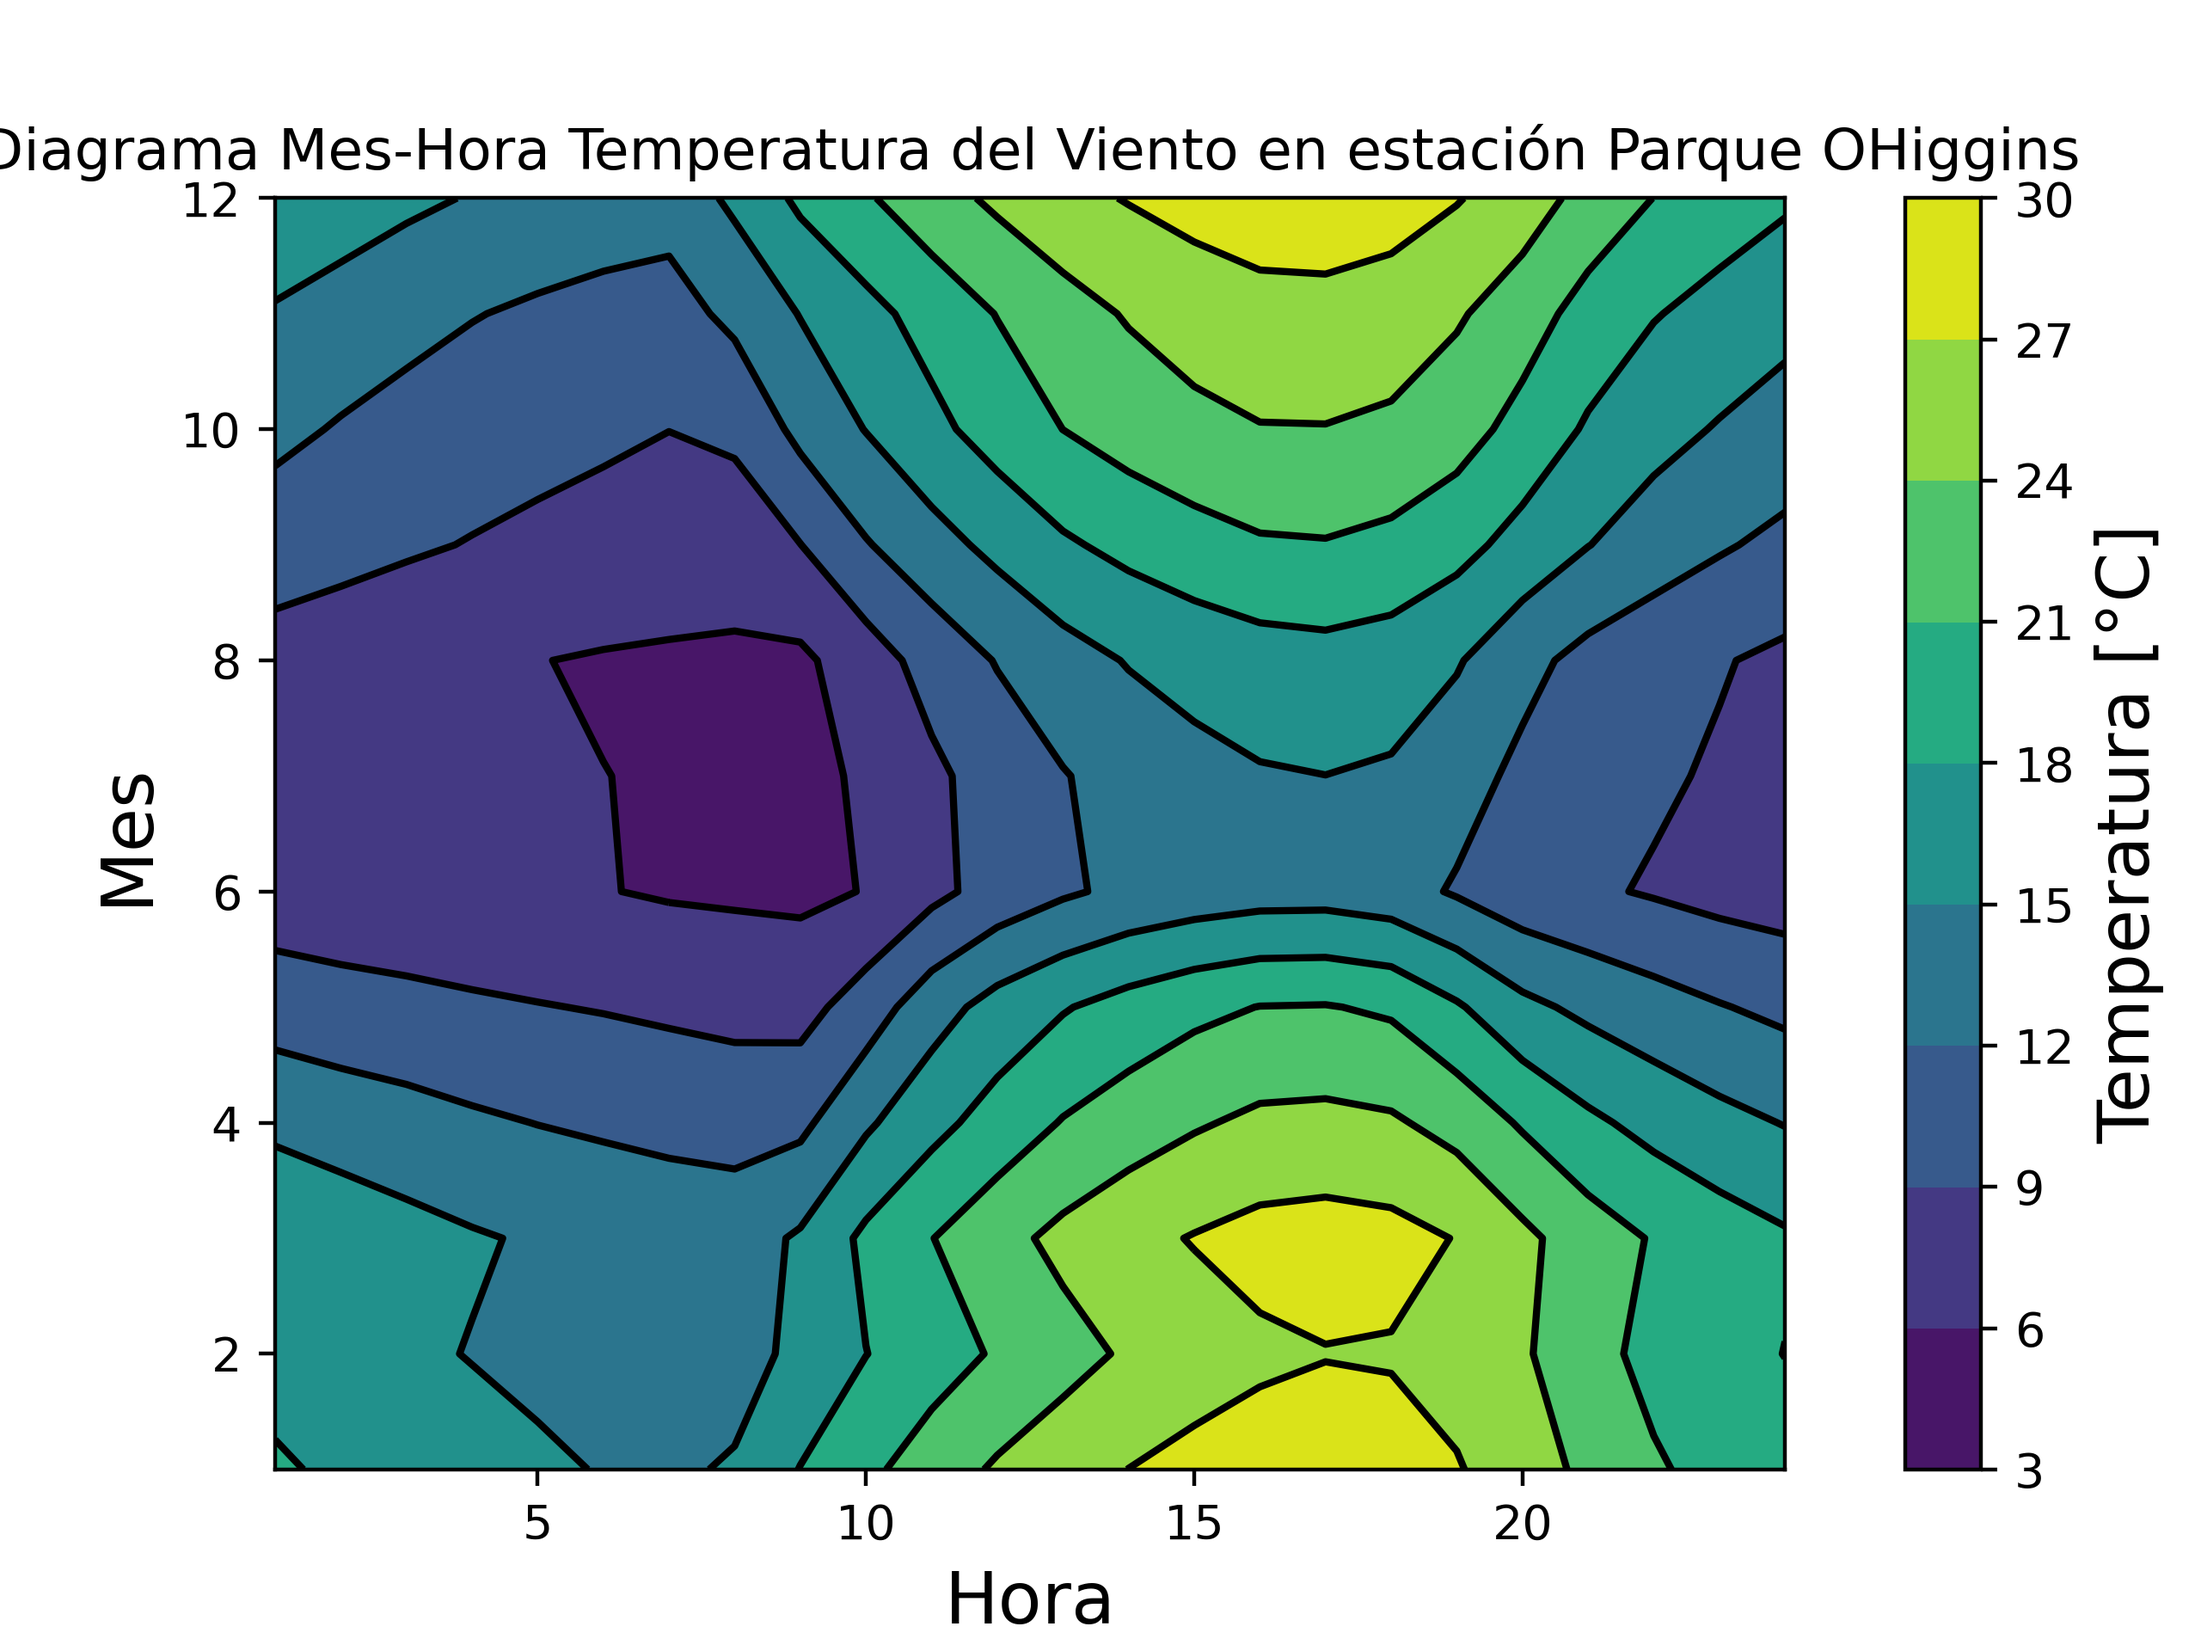
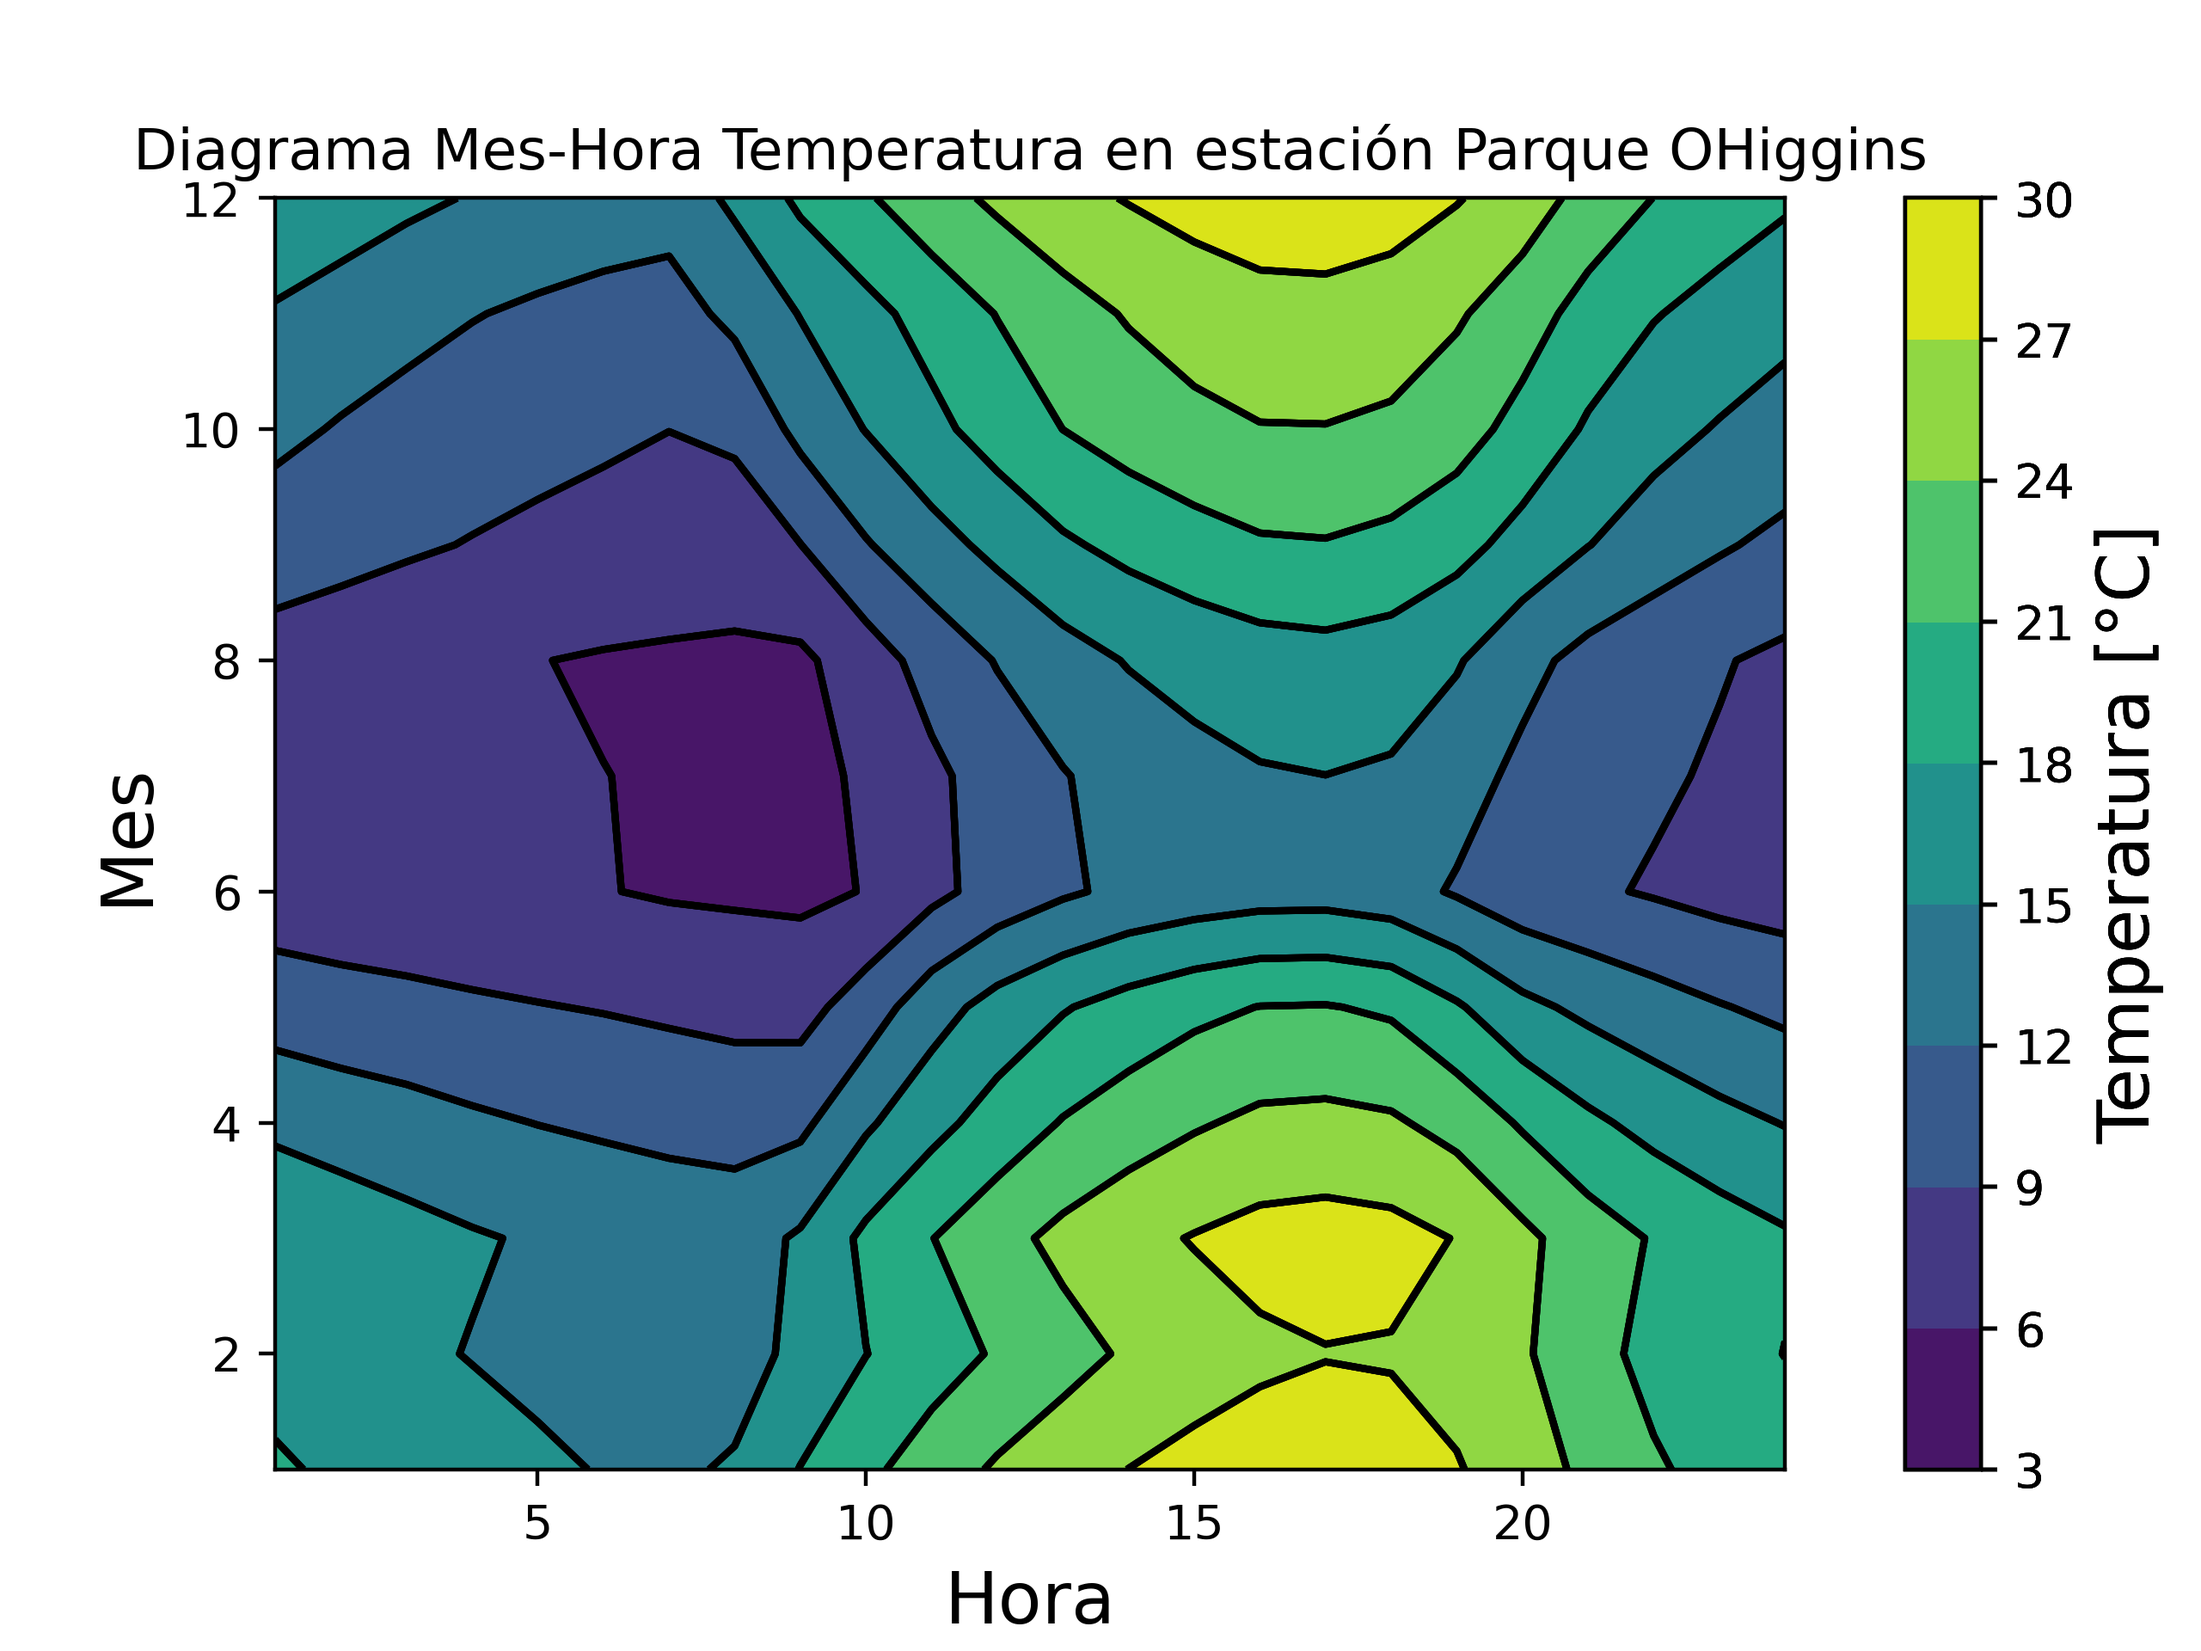
graficos

Changed region(s): [[0.0, 0.0625, 0.9375, 0.125]]

diff --git a/codigo.py b/codigo.py
@@ -80,7 +80,7 @@ ax4 = fig2.add_subplot(111)
 ax4.plot(Data.index, Data.Temperatura)
 ax4.set_xlabel('Fecha')
 ax4.set_ylabel('Temperatura [°C]')
-ax4.set_title('Serie de tiempo de Temperatura del Viento en estación Parque OHiggins')
+ax4.set_title('Serie de tiempo de Temperatura en estación Parque OHiggins')
 ax4.grid()
 fig2.savefig('Serie de Tiempo  de Temperatura parque OHiggins', dpi=400)
 
@@ -132,7 +132,7 @@ ax10 = fig7.add_subplot(111)
 ax10.plot(ciclo_diario.index, ciclo_diario.Temperatura)
 ax10.set_xlabel('Hora')
 ax10.set_ylabel('Temperatura [°C]')
-ax10.set_title('Ciclo Diario de Temperatura del Viento en estación Parque OHiggins')
+ax10.set_title('Ciclo Diario de Temperatura en estación Parque OHiggins')
 ax10.grid()
 fig7.savefig('Ciclo Diario Temperatura parque OHiggins', dpi=400)
 
@@ -185,7 +185,7 @@ ax15 = fig10.add_subplot(111)
 ax15.plot(ciclo_estacional.index, ciclo_estacional.Temperatura)
 ax15.set_xlabel('Mes')
 ax15.set_ylabel('Temperatura [°C]')
-ax15.set_title('Ciclo Estacional de Temperatura del Viento en estación Parque OHiggins')
+ax15.set_title('Ciclo Estacional de Temperatura en estación Parque OHiggins')
 ax15.grid()
 fig10.savefig('Ciclo Estacional Temperatura parque OHiggins', dpi=400)
 
@@ -250,7 +250,7 @@ ax6 = fig4.add_subplot(111)
 ax6.hist(Data.Temperatura, bins = 30, density=True)
 ax6.text(20, 0.045, textstr
     , fontsize=10, va='bottom')
-ax6.set_title('Histograma Temperatura del Viento en estación Parque OHiggins')
+ax6.set_title('Histograma Temperatura en estación Parque OHiggins')
 ax6.set_xlabel('Temperatura [°C]', fontsize=12)
 ax6.set_ylabel('Probabilidad', fontsize = 12)
 ax6.grid()
@@ -278,6 +278,6 @@ divider = make_axes_locatable(ax13)
 cax = divider.append_axes("right", size="5%", pad=0.35)
 plt.colorbar(im, cax=cax)
 plt.ylabel("Temperatura [°C]", fontsize=15)
-ax13.set_title('Diagrama Mes-Hora Temperatura del Viento en estación Parque OHiggins')
+ax13.set_title('Diagrama Mes-Hora Temperatura en estación Parque OHiggins')
 fig11.savefig('Diagrama Mes-Hora Temperatura parque OHiggins', dpi=400)
 
